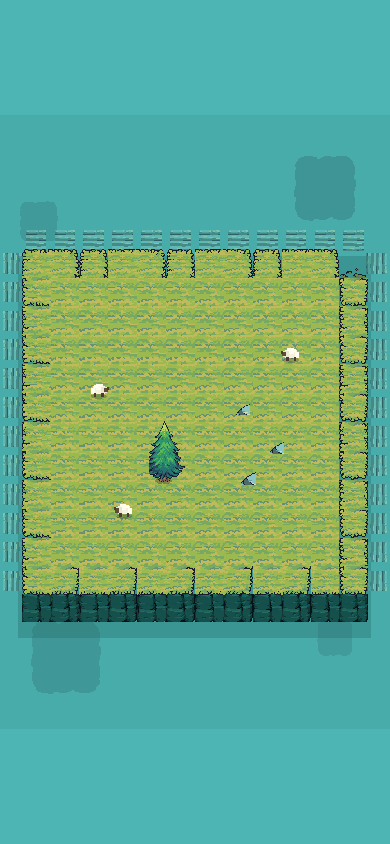
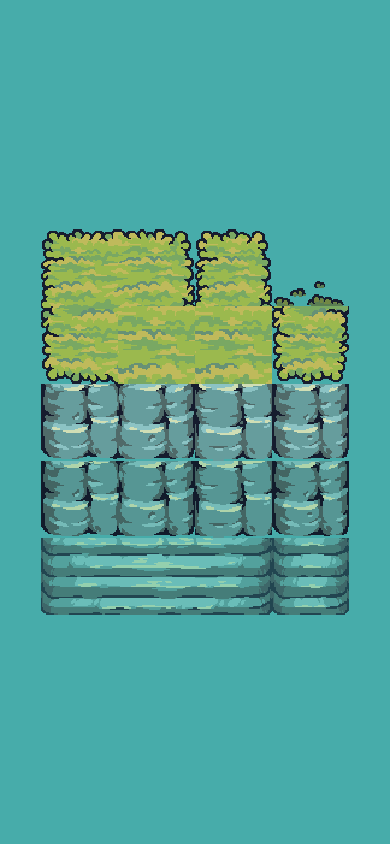
feat(web): focus game scene on rock island tile

diff --git a/apps/web/src/game/FloatingIslandScene.ts b/apps/web/src/game/FloatingIslandScene.ts
@@ -1,12 +1,17 @@
 import Phaser from 'phaser';
 import { tinySwordsAssets } from './assets';
+import { rockIslandScenePlan } from './rockIslandScenePlan';
 
 const DESIGN_WIDTH = 1280;
 const DESIGN_HEIGHT = 720;
 const TILE_SIZE = 64;
-const ISLAND_TILES = 12;
-const ISLAND_SIZE = TILE_SIZE * ISLAND_TILES;
 const SEA_COLOR = 0x4db6b5;
+
+const platformWidth = rockIslandScenePlan.platform.widthTiles * TILE_SIZE;
+const grassHeight = rockIslandScenePlan.platform.grassRows * TILE_SIZE;
+const rockHeight = rockIslandScenePlan.platform.rockRows * TILE_SIZE;
+const foamHeight = rockIslandScenePlan.foam.rows * TILE_SIZE;
+const platformHeight = grassHeight + rockHeight + foamHeight;
 
 export class FloatingIslandScene extends Phaser.Scene {
   private worldRoot?: Phaser.GameObjects.Container;
@@ -22,17 +27,14 @@ export class FloatingIslandScene extends Phaser.Scene {
       frameHeight: TILE_SIZE,
     });
     this.load.image('grass-center', tinySwordsAssets.islandCenter);
-    this.load.spritesheet('foam-shadow', tinySwordsAssets.foam, {
+    this.load.spritesheet('rock-tiles', tinySwordsAssets.rockTiles, {
       frameWidth: TILE_SIZE,
       frameHeight: TILE_SIZE,
     });
-    this.load.image('clouds', tinySwordsAssets.clouds[0]);
-    this.load.image('tree', tinySwordsAssets.trees[0]);
-    this.load.spritesheet('rocks', tinySwordsAssets.rocks[0], {
+    this.load.spritesheet('water-foam', tinySwordsAssets.waterFoam, {
       frameWidth: TILE_SIZE,
       frameHeight: TILE_SIZE,
     });
-    this.load.image('sheep', tinySwordsAssets.sheep[0]);
   }
 
   create() {
@@ -47,127 +49,76 @@ export class FloatingIslandScene extends Phaser.Scene {
     this.worldRoot = this.add.container(0, 0);
 
     this.createSea();
-    this.createClouds();
-    this.createFoam();
-    this.createCliff();
-    this.createIslandGround();
-    this.createProps();
+    this.createRockIsland();
   }
 
   private createSea() {
     const sea = this.add.tileSprite(0, 0, DESIGN_WIDTH + 640, DESIGN_HEIGHT + 640, 'sea');
     sea.setOrigin(0.5);
-    sea.setAlpha(0.92);
+    sea.setAlpha(0.94);
     this.worldRoot?.add(sea);
   }
 
-  private createClouds() {
-    const clouds = [
-      { x: 288, y: -518, scale: 1.85, alpha: 0.5 },
-      { x: -286, y: 520, scale: 2.1, alpha: 0.46 },
-      { x: -346, y: -444, scale: 1.15, alpha: 0.4 },
-      { x: 310, y: 478, scale: 1.05, alpha: 0.38 },
-    ];
-
-    for (const cloud of clouds) {
-      const sprite = this.add.image(cloud.x, cloud.y, 'clouds');
-      sprite.setScale(cloud.scale);
-      sprite.setAlpha(cloud.alpha);
-      sprite.setTint(0xd6f3ee);
-      this.worldRoot?.add(sprite);
-    }
+  private createRockIsland() {
+    const left = -platformWidth / 2;
+    const top = -platformHeight / 2;
+    this.createGrassCap(left, top);
+    this.createRockBody(left, top + grassHeight);
+    this.createBottomFoam(left, top + grassHeight + rockHeight);
   }
 
-  private createFoam() {
-    const half = ISLAND_SIZE / 2;
-    const foamFrame = 29;
-    for (let i = 0; i < ISLAND_TILES; i += 1) {
-      const offset = -half + i * TILE_SIZE + TILE_SIZE / 2;
-      this.addFoamTile(offset, -half - 18, 0, foamFrame);
-      this.addFoamTile(offset, half + 18, 180, foamFrame);
-      this.addFoamTile(-half - 18, offset, -90, foamFrame);
-      this.addFoamTile(half + 18, offset, 90, foamFrame);
-    }
-  }
-
-  private addFoamTile(x: number, y: number, angle: number, frame: number) {
-    const foam = this.add.image(x, y, 'foam-shadow', frame);
-    foam.setAngle(angle);
-    foam.setAlpha(0.52);
-    foam.setTint(0xd7fff4);
-    foam.setScale(0.72);
-    this.addToWorld(foam);
-  }
-
-  private createCliff() {
-    const half = ISLAND_SIZE / 2;
-    const depth = this.add.rectangle(0, 56, ISLAND_SIZE + 14, ISLAND_SIZE + 78, 0x246a67, 0.34);
-    depth.setOrigin(0.5);
-    this.addToWorld(depth);
-
-    for (let i = 0; i < ISLAND_TILES; i += 1) {
-      const x = -half + i * TILE_SIZE + TILE_SIZE / 2;
-      const cliff = this.add.image(x, half + 28, 'foam-shadow', 21 + (i % 2));
-      cliff.setTint(0x2f7c76);
-      cliff.setAlpha(0.96);
-      this.addToWorld(cliff);
-    }
-  }
-
-  private createIslandGround() {
-    const half = ISLAND_SIZE / 2;
-    for (let y = 0; y < ISLAND_TILES; y += 1) {
-      for (let x = 0; x < ISLAND_TILES; x += 1) {
-        const px = -half + x * TILE_SIZE + TILE_SIZE / 2;
-        const py = -half + y * TILE_SIZE + TILE_SIZE / 2;
-        if (x > 0 && x < ISLAND_TILES - 1 && y > 0 && y < ISLAND_TILES - 1) {
+  private createGrassCap(left: number, top: number) {
+    for (let y = 0; y < rockIslandScenePlan.platform.grassRows; y += 1) {
+      for (let x = 0; x < rockIslandScenePlan.platform.widthTiles; x += 1) {
+        const px = left + x * TILE_SIZE + TILE_SIZE / 2;
+        const py = top + y * TILE_SIZE + TILE_SIZE / 2;
+        if (y === 0 || x === 0 || x === rockIslandScenePlan.platform.widthTiles - 1) {
+          this.addToWorld(this.add.image(px, py, 'grass', this.getGrassFrame(x, y)));
+        } else {
           this.addToWorld(this.add.image(px, py, 'grass-center'));
-          continue;
         }
-        const frame = this.getGroundFrame(x, y);
-        this.addToWorld(this.add.image(px, py, 'grass', frame));
       }
     }
   }
 
-  private getGroundFrame(x: number, y: number) {
+  private getGrassFrame(x: number, y: number) {
+    const maxX = rockIslandScenePlan.platform.widthTiles - 1;
     if (x === 0 && y === 0) return 0;
-    if (x === ISLAND_TILES - 1 && y === 0) return 4;
-    if (x === 0 && y === ISLAND_TILES - 1) return 20;
-    if (x === ISLAND_TILES - 1 && y === ISLAND_TILES - 1) return 23;
+    if (x === maxX && y === 0) return 4;
+    if (x === 0) return 20;
+    if (x === maxX) return 23;
     if (y === 0) return 1 + (x % 3);
-    if (y === ISLAND_TILES - 1) return 21 + (x % 2);
-    if (x === 0) return y % 2 === 0 ? 10 : 20;
-    if (x === ISLAND_TILES - 1) return y % 2 === 0 ? 13 : 23;
-    return 11;
+    return 21 + (x % 2);
   }
 
-  private createProps() {
-    const tree = this.add.image(-42, 74, 'tree');
-    tree.setScale(0.82);
-    this.addToWorld(tree);
-
-    const rocks = [
-      { x: 104, y: 108, frame: 0, scale: 1.0 },
-      { x: 168, y: 42, frame: 2, scale: 0.92 },
-      { x: 94, y: -42, frame: 4, scale: 0.84 },
-    ];
-    for (const rock of rocks) {
-      const sprite = this.add.image(rock.x, rock.y, 'rocks', rock.frame);
-      sprite.setScale(rock.scale);
-      this.addToWorld(sprite);
+  private createRockBody(left: number, top: number) {
+    for (let y = 0; y < rockIslandScenePlan.platform.rockRows; y += 1) {
+      for (let x = 0; x < rockIslandScenePlan.platform.widthTiles; x += 1) {
+        const px = left + x * TILE_SIZE + TILE_SIZE / 2;
+        const py = top + y * TILE_SIZE + TILE_SIZE / 2;
+        const frame = this.getRockFrame(x, y);
+        const tile = this.add.image(px, py, 'rock-tiles', frame);
+        tile.setTint(y === 0 ? 0xffffff : 0xd6f4f0);
+        this.addToWorld(tile);
+      }
     }
+  }
 
-    const sheep = [
-      { x: -214, y: -74, flip: false },
-      { x: 214, y: -154, flip: true },
-      { x: -156, y: 192, flip: true },
-    ];
-    for (const animal of sheep) {
-      const sprite = this.add.image(animal.x, animal.y, 'sheep');
-      sprite.setScale(1.06);
-      sprite.setFlipX(animal.flip);
-      this.addToWorld(sprite);
+  private getRockFrame(x: number, y: number) {
+    const maxX = rockIslandScenePlan.platform.widthTiles - 1;
+    if (x === 0) return y === 0 ? 12 : 20;
+    if (x === maxX) return y === 0 ? 15 : 23;
+    return y === 0 ? 13 + (x % 2) : 21 + (x % 2);
+  }
+
+  private createBottomFoam(left: number, top: number) {
+    for (let x = 0; x < rockIslandScenePlan.platform.widthTiles; x += 1) {
+      const px = left + x * TILE_SIZE + TILE_SIZE / 2;
+      const py = top + TILE_SIZE / 2;
+      const foam = this.add.image(px, py, 'water-foam', x % 4);
+      foam.setAlpha(0.72);
+      foam.setTint(0xdbfff7);
+      this.addToWorld(foam);
     }
   }
 
@@ -181,11 +132,11 @@ export class FloatingIslandScene extends Phaser.Scene {
 
     const width = this.scale.width || DESIGN_WIDTH;
     const height = this.scale.height || DESIGN_HEIGHT;
-    const margin = Math.min(width, height) < 620 ? 48 : 82;
+    const margin = Math.min(width, height) < 620 ? 34 : 80;
     const zoom = Math.min(
-      width / (ISLAND_SIZE + margin * 2),
-      height / (ISLAND_SIZE + margin * 2),
-      1,
+      width / (platformWidth + margin * 2),
+      height / (platformHeight + margin * 2),
+      1.75,
     );
 
     this.worldRoot.setPosition(width / 2, height / 2);

diff --git a/apps/web/src/test/rock-island-scene.test.ts b/apps/web/src/test/rock-island-scene.test.ts
@@ -1,0 +1,17 @@
+import { describe, expect, it } from 'vitest';
+import { rockIslandScenePlan } from '../game/rockIslandScenePlan';
+
+describe('compact rock island scene plan', () => {
+  it('uses one small grass-and-rock platform with foam below the rock', () => {
+    expect(rockIslandScenePlan.platform).toMatchObject({
+      widthTiles: 4,
+      grassRows: 2,
+      rockRows: 2,
+    });
+    expect(rockIslandScenePlan.decorations).toEqual([]);
+    expect(rockIslandScenePlan.foam).toMatchObject({
+      placement: 'below-rock',
+      rows: 1,
+    });
+  });
+});

diff --git a/apps/web/src/test/game-assets.test.ts b/apps/web/src/test/game-assets.test.ts
@@ -2,16 +2,16 @@ import { describe, expect, it } from 'vitest';
 import { tinySwordsAssets } from '../game/assets';
 
 describe('tiny swords asset manifest', () => {
-  it('lists every asset group required for the floating island scene', () => {
+  it('lists only the asset groups required for the compact rock island scene', () => {
     expect(tinySwordsAssets).toMatchObject({
       sea: expect.stringContaining('/game/tiny-swords/'),
       islandTiles: expect.stringContaining('/game/tiny-swords/'),
-      foam: expect.stringContaining('/game/tiny-swords/'),
-      shadow: expect.stringContaining('/game/tiny-swords/'),
-      clouds: expect.arrayContaining([expect.stringContaining('/game/tiny-swords/')]),
-      trees: expect.arrayContaining([expect.stringContaining('/game/tiny-swords/')]),
-      rocks: expect.arrayContaining([expect.stringContaining('/game/tiny-swords/')]),
-      sheep: expect.arrayContaining([expect.stringContaining('/game/tiny-swords/')]),
+      rockTiles: expect.stringContaining('/game/tiny-swords/'),
+      waterFoam: expect.stringContaining('/game/tiny-swords/'),
     });
+    expect(tinySwordsAssets).not.toHaveProperty('clouds');
+    expect(tinySwordsAssets).not.toHaveProperty('trees');
+    expect(tinySwordsAssets).not.toHaveProperty('sheep');
+    expect(tinySwordsAssets).not.toHaveProperty('rocks');
   });
 });

diff --git a/apps/web/src/game/rockIslandScenePlan.ts b/apps/web/src/game/rockIslandScenePlan.ts
@@ -1,0 +1,12 @@
+export const rockIslandScenePlan = {
+  platform: {
+    widthTiles: 4,
+    grassRows: 2,
+    rockRows: 2,
+  },
+  foam: {
+    placement: 'below-rock',
+    rows: 1,
+  },
+  decorations: [],
+} as const;

diff --git a/apps/web/src/game/assets.ts b/apps/web/src/game/assets.ts
@@ -4,15 +4,10 @@ export const tinySwordsAssets = {
   sea: `${tinySwordsBase}/water-background.png`,
   islandTiles: `${tinySwordsBase}/grass-tiles.png`,
   islandCenter: `${tinySwordsBase}/grass-center.png`,
-  foam: `${tinySwordsBase}/scene-layout.png`,
-  shadow: `${tinySwordsBase}/scene-layout.png`,
-  clouds: [`${tinySwordsBase}/clouds-decor.png`],
-  trees: [`${tinySwordsBase}/tree-pine.png`],
-  rocks: [`${tinySwordsBase}/rocks.png`],
-  sheep: [`${tinySwordsBase}/sheep-idle.png`],
+  rockTiles: `${tinySwordsBase}/scene-layout.png`,
+  waterFoam: `${tinySwordsBase}/water-foam.png`,
 } as const;
 
 export const tinySwordsAssetNotes = {
   source: `${tinySwordsBase}/SOURCE.txt`,
-  sheep: 'Temporary local pixel sheep until the original Tiny Swords Free Pack zip is available.',
 } as const;

diff --git a/docs/ai-usage-log.md b/docs/ai-usage-log.md
@@ -115,3 +115,11 @@
 - 处理：将已验证的 `floating-island-map-design` 分支 fast-forward 合入 `main`，并推送 `origin/main` 到 `bef88c9`，触发 Cloudflare Pages 重新部署。
 - 验证：轮询生产 HTML 直到 bundle 切换为 `/assets/index-CgTmMFQ8.js` 且包含 `/game`/Tiny Swords 代码；Playwright 实际访问 `https://jimapp.ccwu.cc/game` 的桌面 1280x720 和移动 390x844，均检测到全屏 canvas、无 AppShell、无“页面走丢了”、无 console/page error，截图采样分别有 49 和 55 种颜色，确认生产非空渲染。
 - 隐私检查：未记录访问密钥、Token、数据库连接串或其他秘密信息。
+
+## 2026-07-18：`/game` 收敛为单个岩石岛块
+
+- 任务摘要：用户提供参考图，要求 `/game` 只显示一张小草地岩石块，并在岩石下方加入 Water Foam 风格波浪。
+- AI 贡献：将 Phaser 场景从 12x12 大方岛、树、羊、云和散落石头收敛为 4 格宽的单个草地岩石平台；保留海面背景；新增 `rockIslandScenePlan` 作为可测试布局说明；从 `scene-layout.png` 底部裁出 `water-foam.png`，放在岩石层下方；精简运行时资源 manifest，不再引用云、树、羊、散落石头资源。
+- 测试过程：先将资源 manifest 测试和新 `rockIslandScenePlan` 测试改为小岩石岛验收标准，并观察到旧实现缺少 `rockTiles`/`waterFoam` 和布局宽度不匹配的失败，再修改生产代码。
+- 验证：目标测试和 typecheck 已通过；本地 Playwright 打开 `http://localhost:5174/game` 的桌面 1280x720 与移动 390x844 截图均无 console/page error，canvas 全屏且显示单个岩石岛块。
+- 隐私检查：未记录访问密钥、Token、数据库连接串或其他秘密信息。